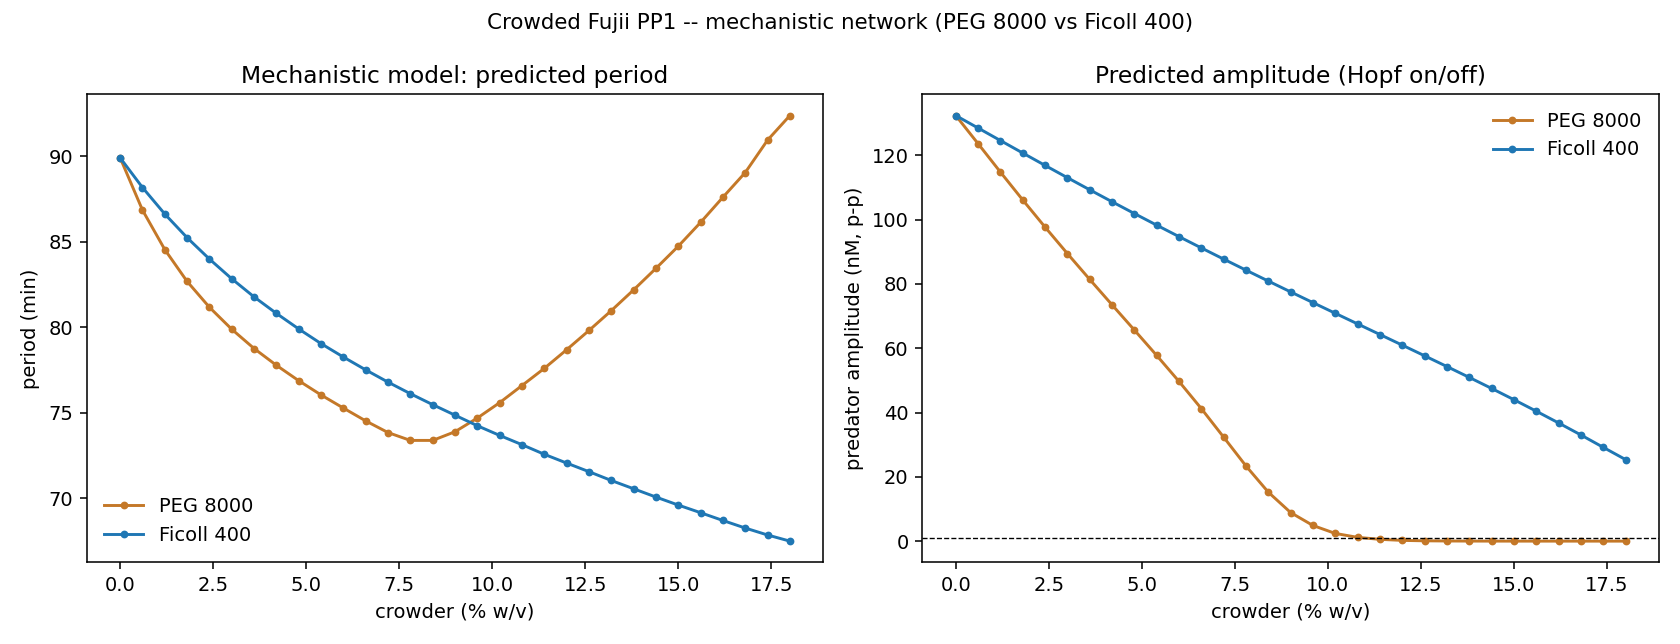
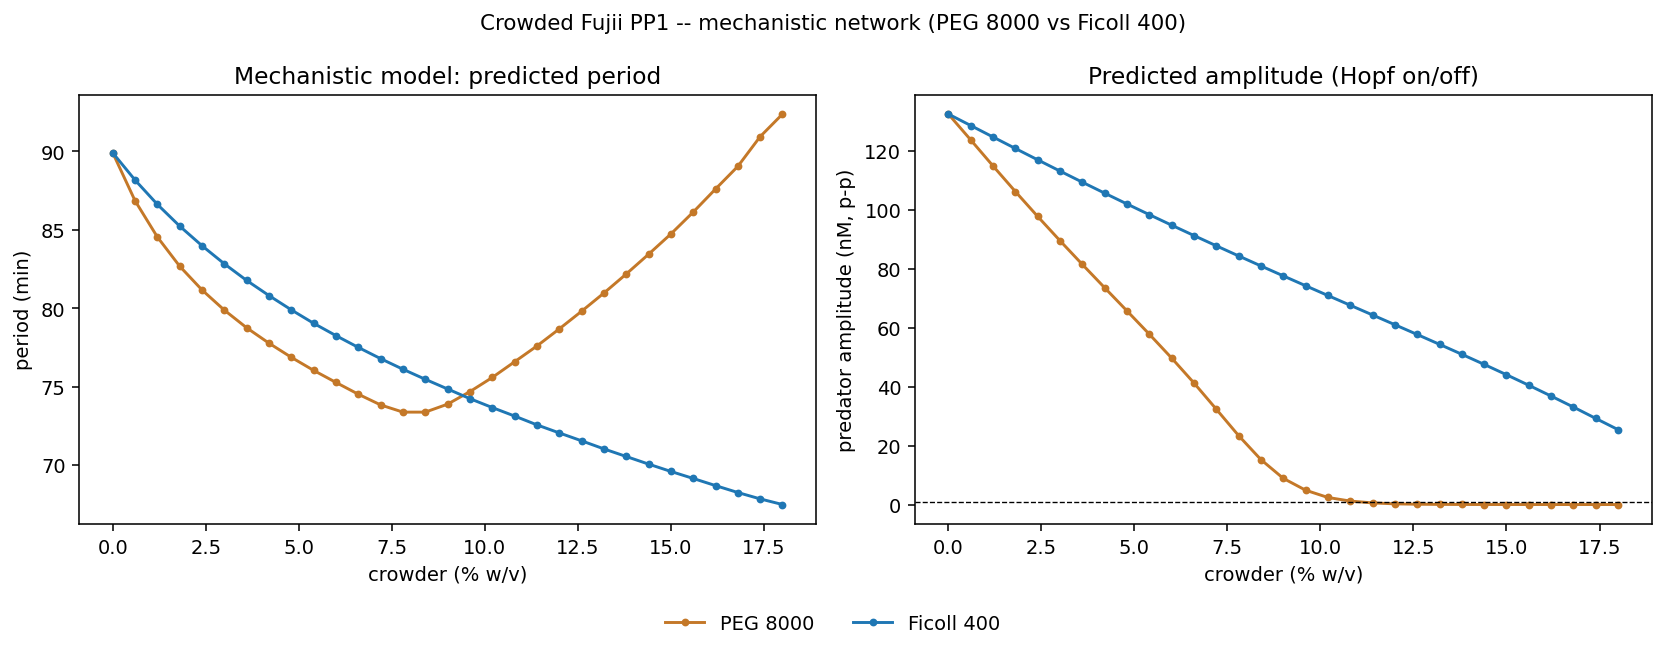
fix(doc+figs): per-term equation explanations, legend off the plots, no row splits
- crowded_mechanistic.py: move both figure legends to a single shared
  legend below the panels (bbox_inches=tight) so the key no longer
  overlaps the curves; regenerate figures.
- generate_mechanistic_report.py: add Section 2.1-2.4 explaining every
  symbol and every term of the proposed equations and crowding rules;
  prevent table rows from splitting across page breaks (cantSplit +
  keep_with_next + repeating header).

diff --git a/crowding/generate_mechanistic_report.py b/crowding/generate_mechanistic_report.py
@@ -162,6 +162,19 @@ def make_table(headers, rows, widths=None):
         for j, w in enumerate(widths):
             for r in t.rows:
                 r.cells[j].width = Inches(w)
+    # keep the table from breaking across a page boundary: no row may split
+    # mid-row, and every row but the last is glued to the next so the whole
+    # table moves as one block to the next page if it does not fit.
+    n = len(t.rows)
+    for ri, row in enumerate(t.rows):
+        trPr = row._tr.get_or_add_trPr()
+        trPr.append(OxmlElement('w:cantSplit'))
+        if ri == 0:
+            trPr.append(OxmlElement('w:tblHeader'))   # repeat header if it spans
+        if ri < n - 1:
+            for cell in row.cells:
+                for para in cell.paragraphs:
+                    para.paragraph_format.keep_with_next = True
     return t
 
 
@@ -246,12 +259,56 @@ omath(r"\frac{dC_{NP}}{dt} = k_{on}^{NP}NP - k_{off}^{NP}C_{NP} - k_{cat}^{p}C_{
 omath(r"\frac{dC_{NE}}{dt} = k_{on}^{eN}NE - k_{off}^{eN}C_{NE} - k_{cat}^{eN}C_{NE}")
 omath(r"\frac{dC_{PE}}{dt} = k_{on}^{eP}PE - k_{off}^{eP}C_{PE} - k_{cat}^{eP}C_{PE}")
 
-body("Reading one term: in the prey equation, -k_{on}^{NG}NG is prey binding "
-     "the template (it leaves the free pool), +k_{off}^{NG}C_{NG} is that "
-     "complex falling back apart, and +2k_{cat}^{g}C_{NG} is the catalytic "
-     "step that copies the prey, giving two strands where there was one. "
-     "lambda_N and lambda_P are a tiny constant background synthesis ('leak') "
-     "that keeps the rhythm robust (Section 8).")
+heading("2.1  What each symbol means", 2)
+bullet("free prey and predator strands. These are the two populations we plot.",
+       "N, P:  ")
+bullet("the free template strand that prey is copied on.", "G:  ")
+bullet("the free exonuclease (ttRecJ), the single enzyme that degrades both "
+       "prey and predator.", "E:  ")
+bullet("a complex, meaning two molecules currently bound together. For example "
+       "C_{NG} is one prey strand stuck to the template, and C_{PE} is a "
+       "predator strand held by the enzyme.",
+       "C_{NG}, C_{NP}, C_{NE}, C_{PE}:  ")
+bullet("the on-rate (how fast two molecules bind), the off-rate (how fast a "
+       "complex falls back apart), and the catalytic rate (how fast a bound "
+       "complex does its chemistry). The superscript names which pair it "
+       "belongs to.", "k_{on}, k_{off}, k_{cat}:  ")
+bullet("a small constant background synthesis of prey and predator (a 'leak'). "
+       "It is tiny next to the roughly 130 nM swings but it keeps the rhythm "
+       "from collapsing (Section 8).", "lambda_N, lambda_P:  ")
+bullet("the total exonuclease and total template put into the tube (fixed "
+       "numbers, not variables).", "rec, G_{tot}:  ")
+
+heading("2.2  What each term in the prey and predator equations means", 2)
+body("Take the prey equation dN/dt. Its terms come in groups, one group per "
+     "thing prey can do:")
+bullet("prey binds the template and leaves the free pool (-k_{on}^{NG}NG), or "
+       "that complex falls back apart and returns the prey (+k_{off}^{NG}C_{NG}).",
+       "With template (bind/unbind):  ")
+bullet("the polymerase and nickase copy the bound prey and release the product "
+       "as two strands. One prey went in, two come out, so this is the net "
+       "growth of prey.", "Growth (+2k_{cat}^{g}C_{NG}):  ")
+bullet("prey binds and unbinds the predator, because the predator uses prey as "
+       "its template (-k_{on}^{NP}NP + k_{off}^{NP}C_{NP}). Prey is consumed "
+       "when this complex goes on to make predator (in the predator equation).",
+       "With predator:  ")
+bullet("prey binds and unbinds the exonuclease before being cut "
+       "(-k_{on}^{eN}NE + k_{off}^{eN}C_{NE}).", "With the enzyme:  ")
+bullet("the small constant background (+lambda_N).", "Leak:  ")
+body("The predator equation dP/dt reads the same way: it binds and unbinds prey "
+     "and replicates (+2k_{cat}^{p}C_{NP}, each event making two predator "
+     "strands), binds and unbinds the enzyme (-k_{on}^{eP}PE + k_{off}^{eP}"
+     "C_{PE}), and has its own leak (+lambda_P).")
+
+heading("2.3  What the complex equations mean", 2)
+body("Each complex is made when its two partners bind, and is removed in two "
+     "ways: it can simply fall apart, or it can react. So every complex follows "
+     "the same shape, made minus (unbind plus react). For the prey on template:")
+omath(r"\frac{dC_{NG}}{dt} = k_{on}^{NG}NG - \left(k_{off}^{NG} + k_{cat}^{g}\right)C_{NG}")
+body("and the other three complexes are identical in form. The free enzyme is "
+     "not its own equation; it is fixed at every instant by conservation, "
+     "E = rec - C_{NE} - C_{PE}, which is what makes the enzyme a shared, "
+     "limited resource and drives the oscillation.")
 
 # the crowding rules (second shaded line)
 banner2 = doc.add_paragraph()
@@ -281,6 +338,24 @@ body("and the catalytic constants shift by enzyme class (polymerase and nickase 
      "up, exonuclease down):")
 omath(r"k_{cat}^{g},\,k_{cat}^{p} \;\to\; k_{cat}\,e^{+c_{P}\varphi}, "
       r"\qquad k_{cat}^{eN},\,k_{cat}^{eP} \;\to\; k_{cat}\,e^{-c_{E}\varphi}")
+body("Reading each crowding rule:")
+bullet("the fraction of the volume taken up by crowder. It is the one knob the "
+       "whole study turns. v-bar is the crowder's specific volume and C is its "
+       "weight percent.", "phi (volume fraction):  ")
+bullet("the binding strength. K^{0} is its dilute value; the exponential makes "
+       "binding stronger as crowding squeezes the two partners together "
+       "(Section 6.1).", "K(phi):  ")
+bullet("the on-rate, slowed by dividing by the effective viscosity eta_eff: "
+       "thicker solution, slower meeting (Section 6.2). The off-rate k_{off} is "
+       "then set to k_{on}/K so the kinetics and the binding strength stay "
+       "consistent.", "k_{on}(phi):  ")
+bullet("how much the binding strength changes, equal to the extra room the "
+       "compact complex gives back to the crowders (Section 6.1).",
+       "Delta-Delta-G_{EV}:  ")
+bullet("the catalytic steps. Crowding speeds the polymerase and nickase up "
+       "(factor e^{+c_{P} phi}) and slows the exonuclease down (factor "
+       "e^{-c_{E} phi}). c_{P} and c_{E} are how strong each effect is, taken "
+       "from enzyme measurements.", "k_{cat} factors:  ")
 body("mu_ex and eta_eff are defined in Section 6. At zero crowder (phi = 0) "
      "every rate constant returns to its dilute value (Table in Section 5) and "
      "the model reproduces the measured oscillation: period about 90 minutes, "

diff --git a/crowding/crowded_mechanistic.py b/crowding/crowded_mechanistic.py
@@ -367,14 +367,19 @@ def plot_predictions(wt_grid, outfile, use_ion=False):
         ax1.plot(wt_grid, per, "o-", ms=3, color=col, label=CROWDERS[key]["label"])
         ax2.plot(wt_grid, amp, "o-", ms=3, color=col, label=CROWDERS[key]["label"])
     ax1.set_xlabel("crowder (% w/v)"); ax1.set_ylabel("period (min)")
-    ax1.set_title("Mechanistic model: predicted period"); ax1.legend(frameon=False)
+    ax1.set_title("Mechanistic model: predicted period")
     ax2.axhline(1.0, color="k", lw=0.7, ls="--")
     ax2.set_xlabel("crowder (% w/v)")
     ax2.set_ylabel("predator amplitude (nM, p-p)")
-    ax2.set_title("Predicted amplitude (Hopf on/off)"); ax2.legend(frameon=False)
+    ax2.set_title("Predicted amplitude (Hopf on/off)")
+    # one shared legend BELOW the plots so it never sits on top of the curves
+    handles, labels = ax1.get_legend_handles_labels()
+    fig.legend(handles, labels, loc="lower center", ncol=2, frameon=False,
+               fontsize=10, bbox_to_anchor=(0.5, -0.01))
     fig.suptitle("Crowded Fujii PP1 -- mechanistic network "
                  "(PEG 8000 vs Ficoll 400)", fontsize=11)
-    fig.tight_layout(); fig.savefig(outfile, dpi=140)
+    fig.tight_layout(rect=[0, 0.06, 1, 1])
+    fig.savefig(outfile, dpi=140, bbox_inches="tight")
     print(f"saved {outfile}")
 
 
@@ -391,9 +396,14 @@ def plot_timeseries(outfile, conditions):
         ax.plot(t[mask], sol.y[1][mask], color="#d62728", lw=1.4, label="predator P")
         lab = "dilute" if wt == 0 else f"{CROWDERS[key]['label']} {wt}% w/v"
         ax.set_title(lab); ax.set_xlabel("time (min)")
-        ax.set_ylabel("conc (nM)"); ax.legend(frameon=False)
+        ax.set_ylabel("conc (nM)")
+    # one shared legend below all panels, clear of the curves
+    handles, labels = axes[0].get_legend_handles_labels()
+    fig.legend(handles, labels, loc="lower center", ncol=2, frameon=False,
+               fontsize=10, bbox_to_anchor=(0.5, -0.02))
     fig.suptitle("Mechanistic network -- settled dynamics", fontsize=11)
-    fig.tight_layout(); fig.savefig(outfile, dpi=140)
+    fig.tight_layout(rect=[0, 0.07, 1, 1])
+    fig.savefig(outfile, dpi=140, bbox_inches="tight")
     print(f"saved {outfile}")
 
 